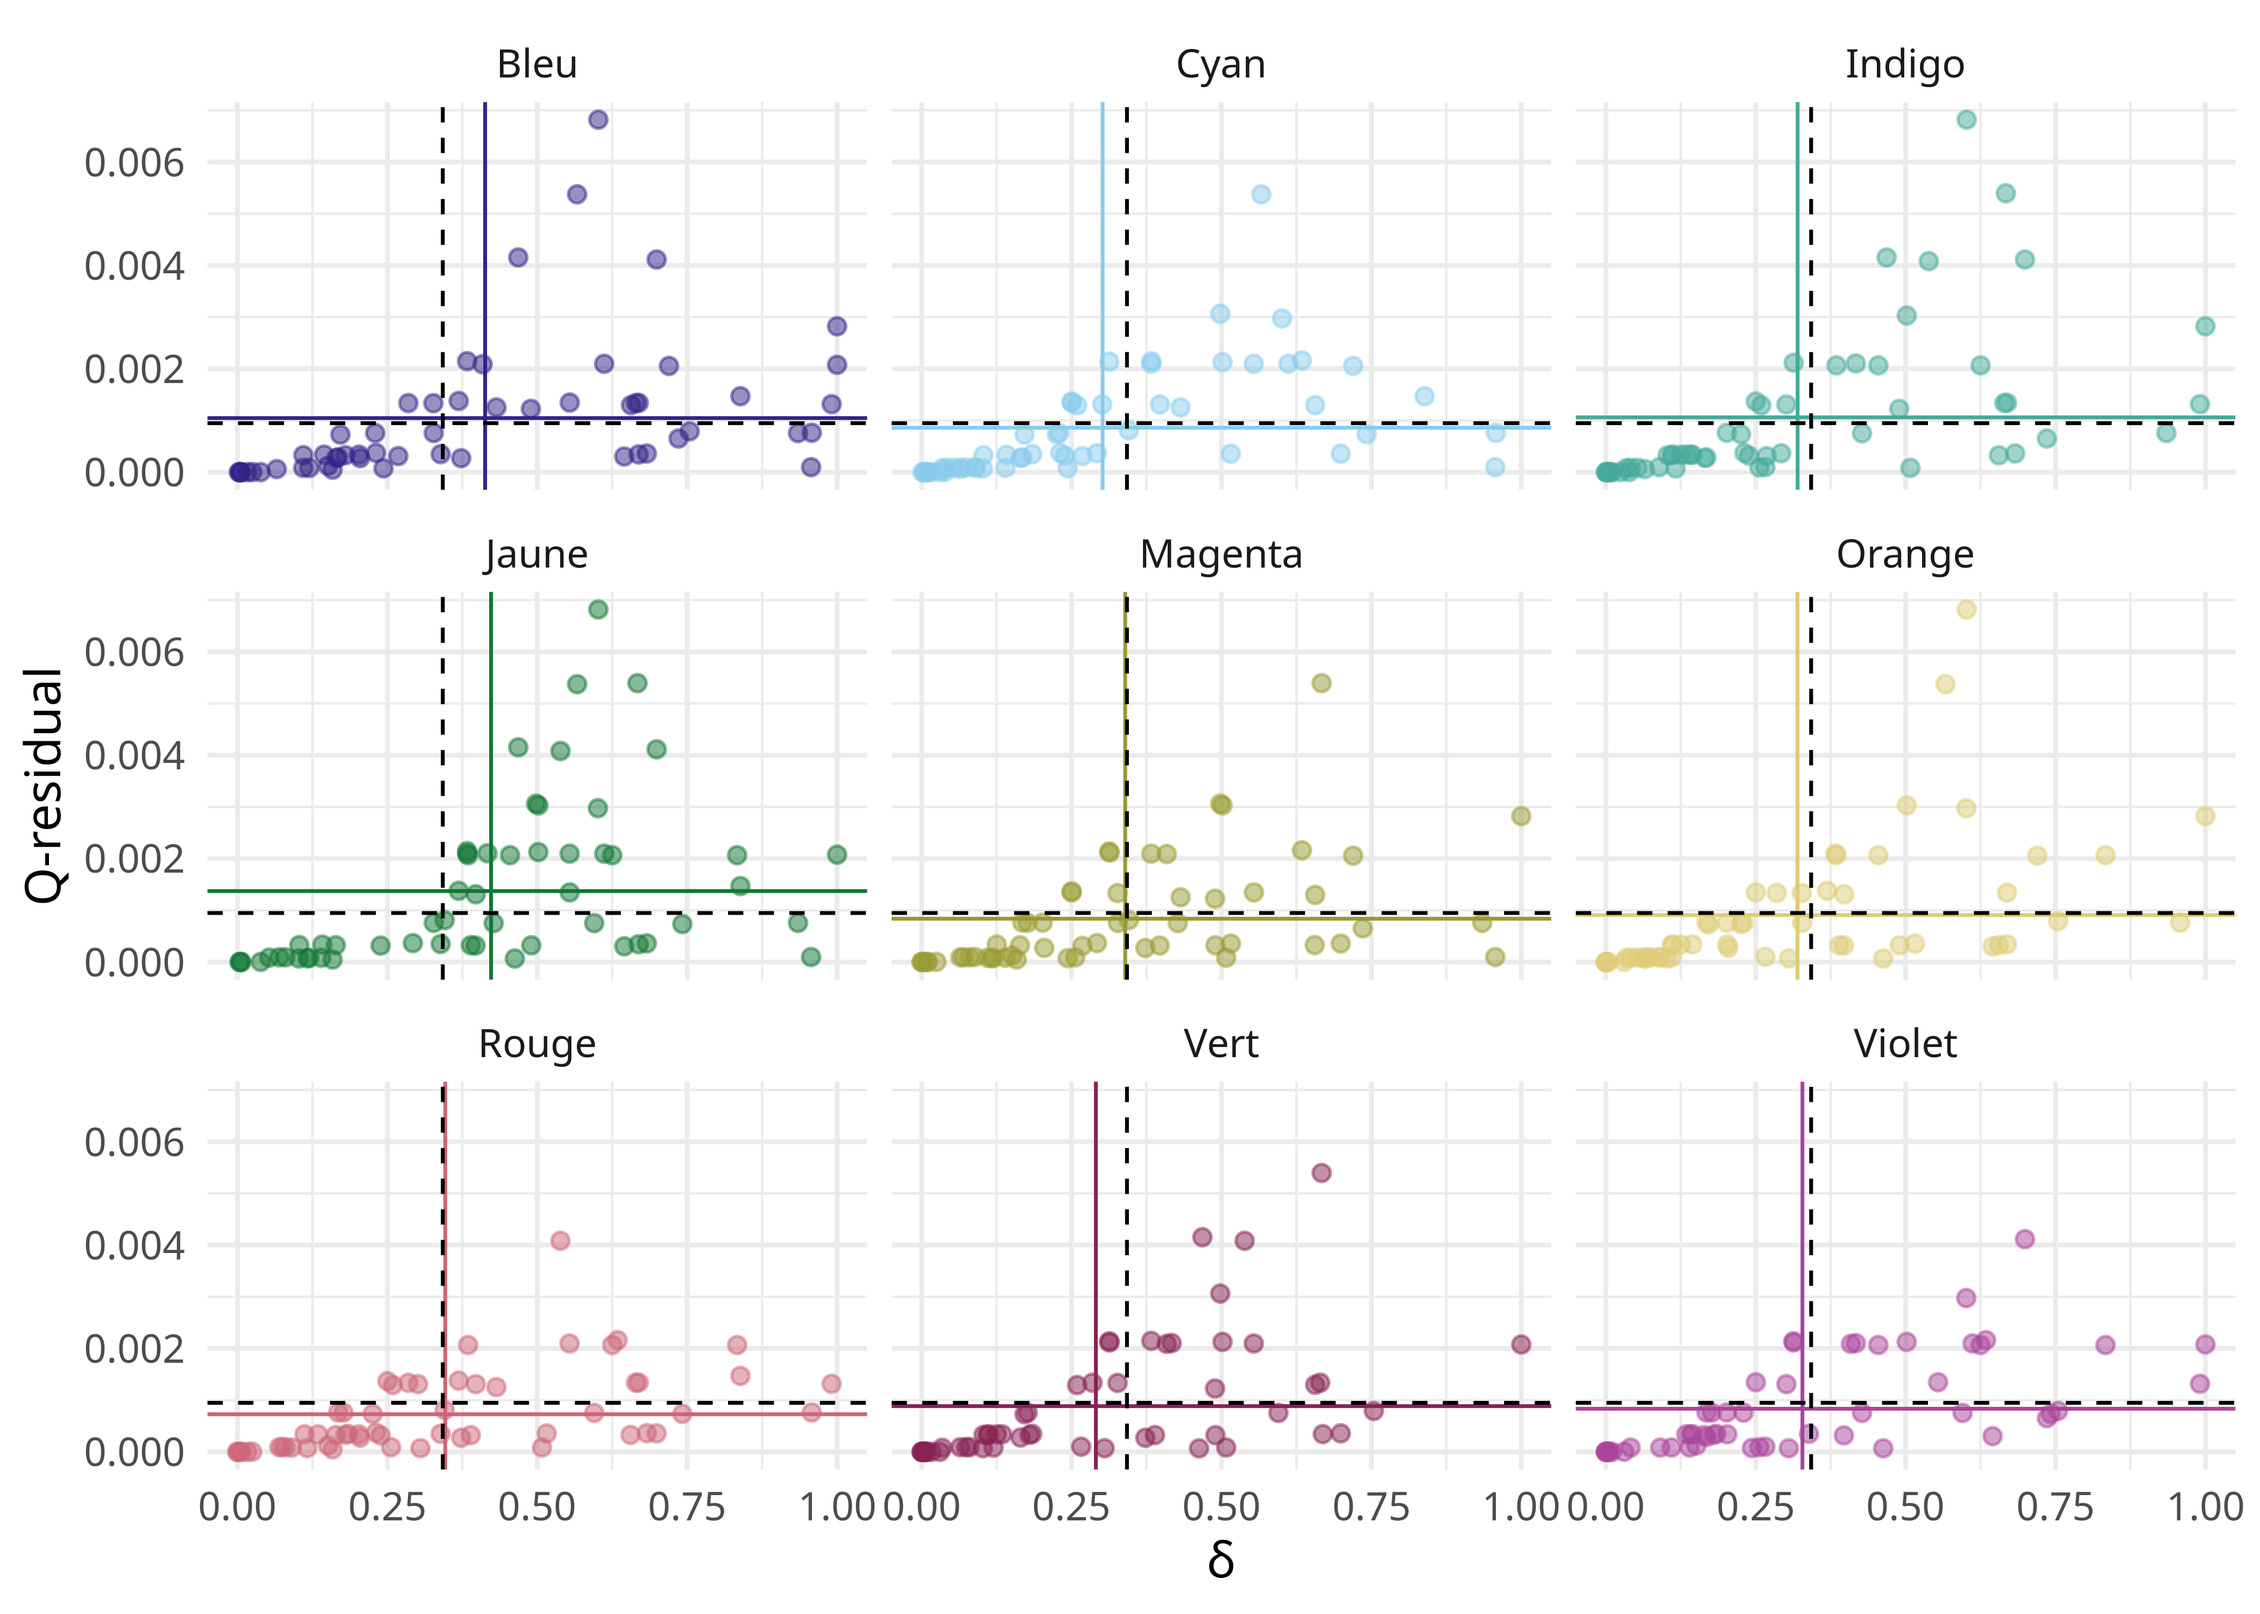
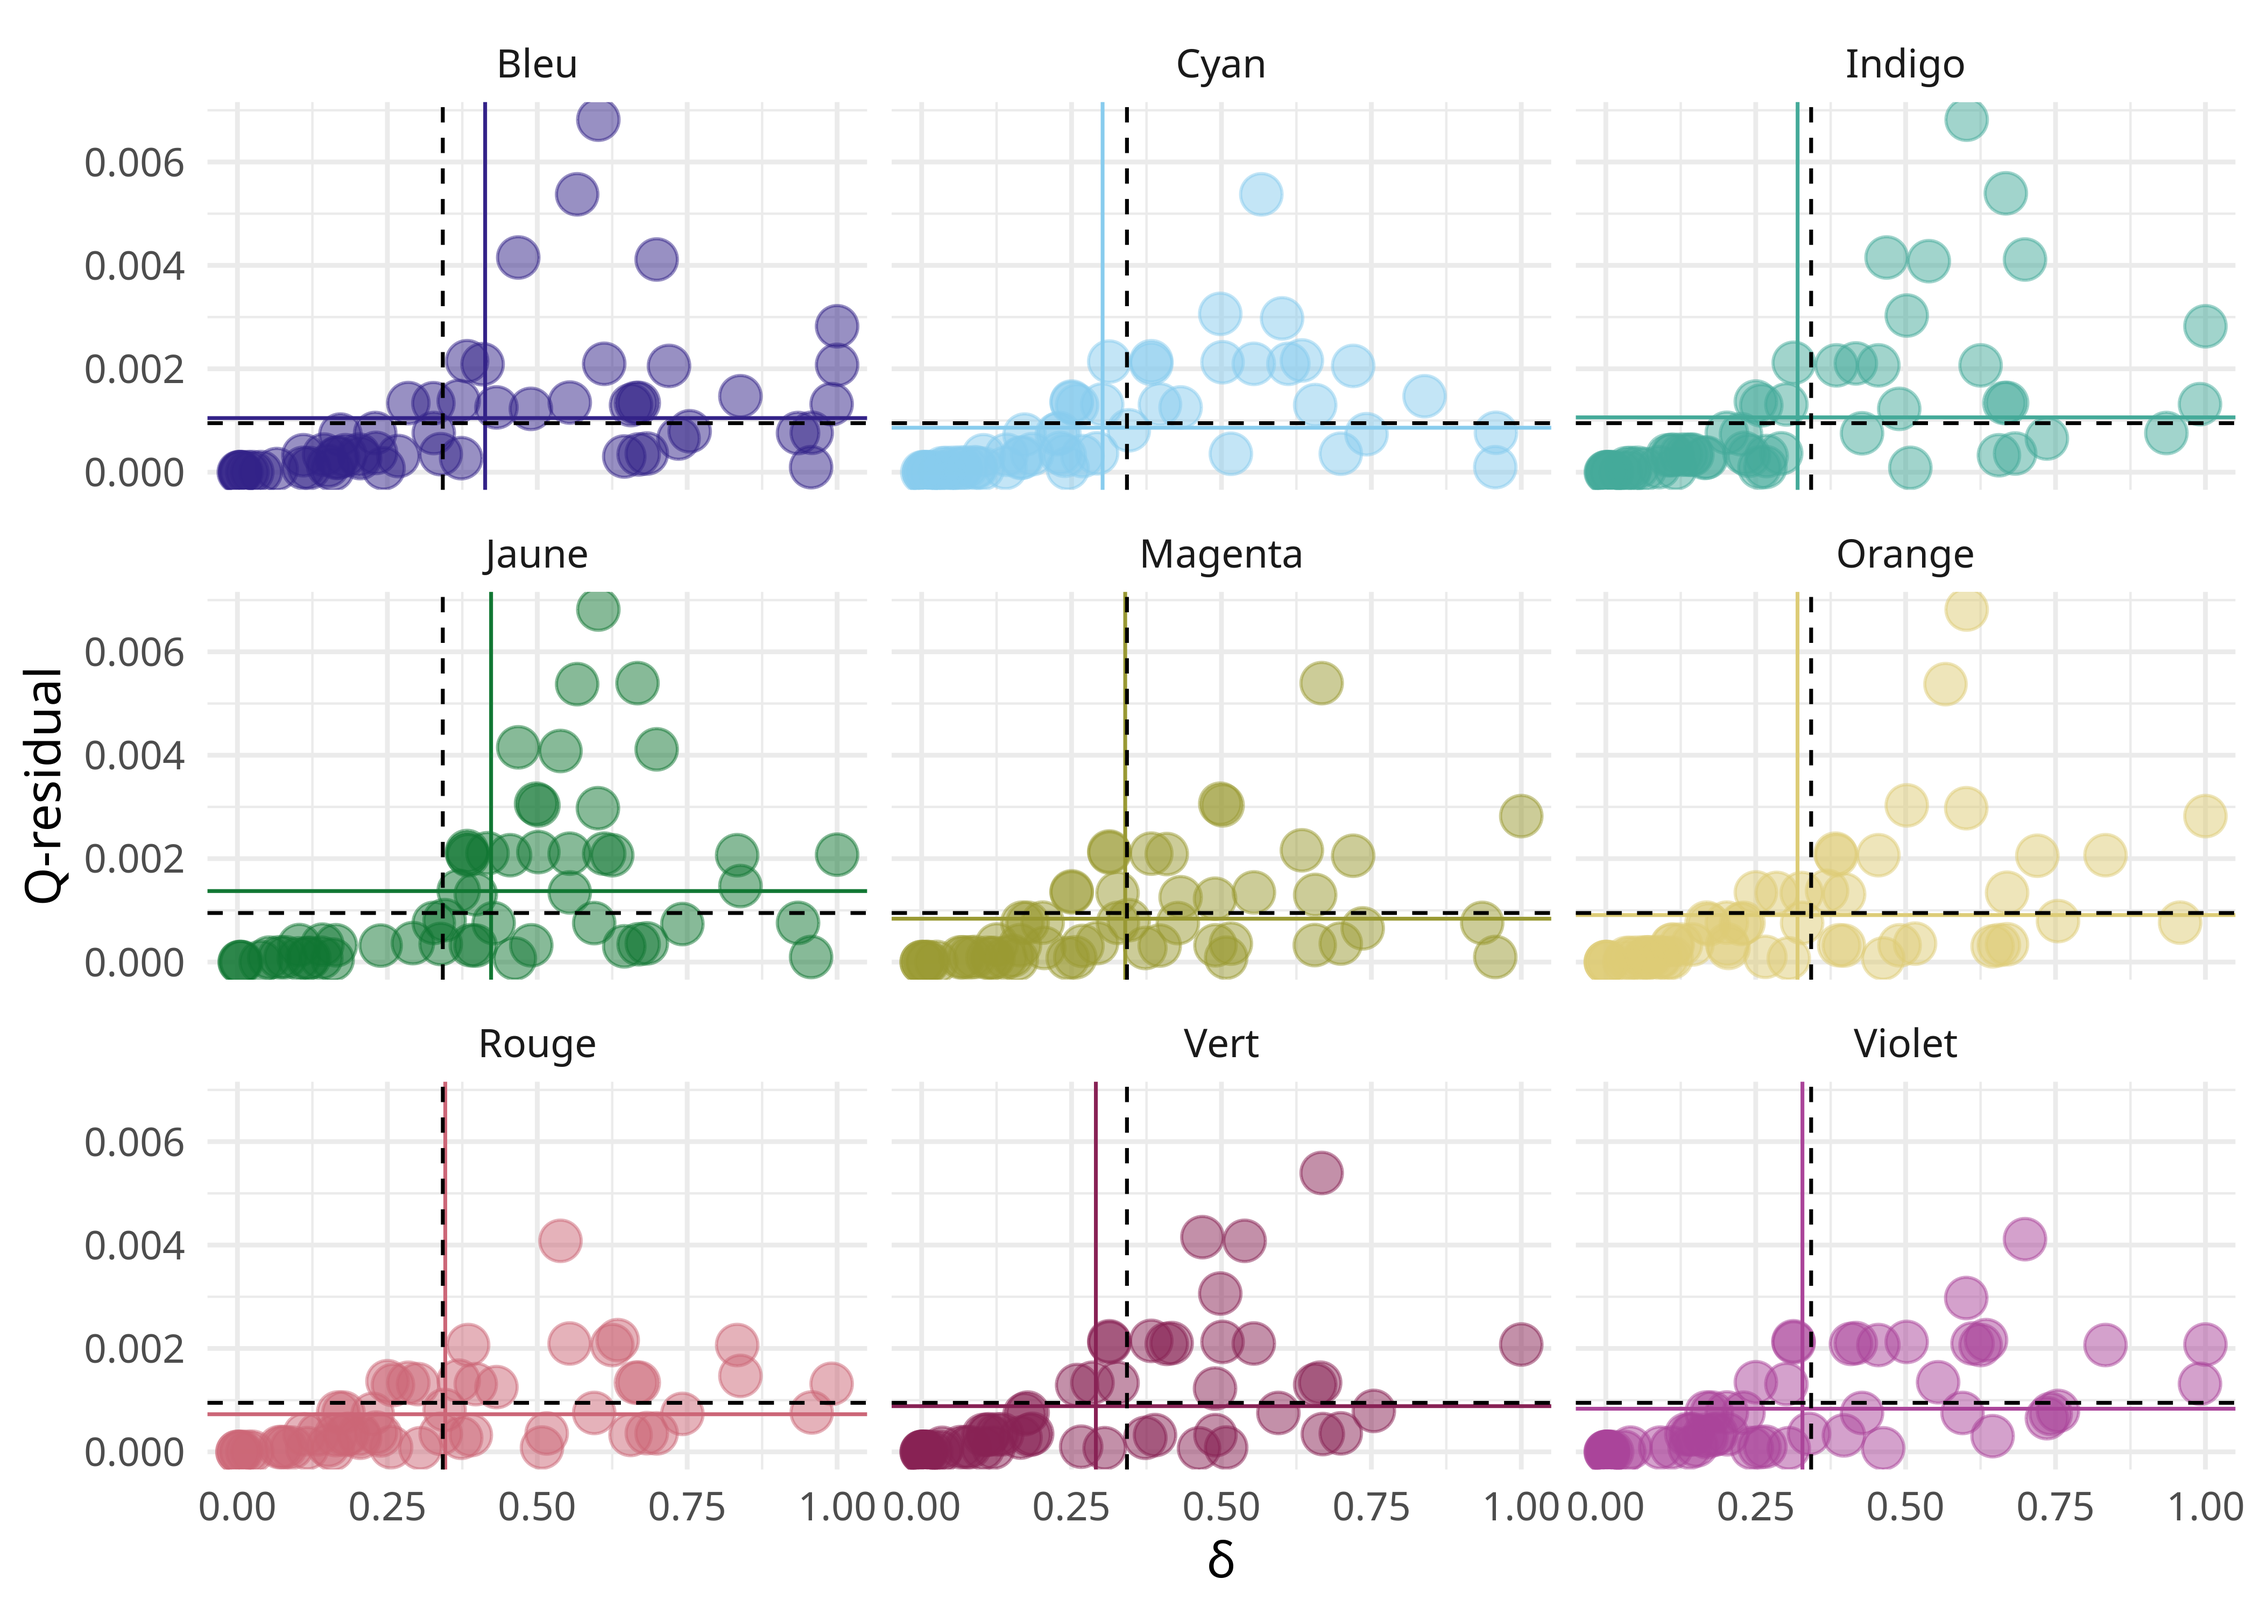
Update evaluation.html, unnamed-chunk-17-1.png, and 6 more files...

diff --git a/docs/evaluation.html b/docs/evaluation.html
@@ -481,7 +481,7 @@ $delta.bar
 <span><span class="va">qr</span> <span class="op">&lt;-</span> <span class="fu">delta.score2</span><span class="op">(</span><span class="va">lx_phy</span>, <span class="st">"all"</span>, f <span class="op">=</span> <span class="va">q.resid</span><span class="op">)</span></span>
 <span><span class="fu"><a href="https://tibble.tidyverse.org/reference/tibble.html">tibble</a></span><span class="op">(</span><span class="va">ds</span>, <span class="va">qr</span><span class="op">)</span> <span class="op"><a href="https://magrittr.tidyverse.org/reference/pipe.html">%&gt;%</a></span> </span>
 <span>  <span class="fu"><a href="https://ggplot2.tidyverse.org/reference/ggplot.html">ggplot</a></span><span class="op">(</span><span class="fu"><a href="https://ggplot2.tidyverse.org/reference/aes.html">aes</a></span><span class="op">(</span>x <span class="op">=</span> <span class="va">ds</span>, y <span class="op">=</span><span class="va">qr</span><span class="op">)</span><span class="op">)</span> <span class="op">+</span></span>
-<span>  <span class="fu"><a href="https://ggplot2.tidyverse.org/reference/geom_point.html">geom_point</a></span><span class="op">(</span>color <span class="op">=</span> <span class="fu"><a href="https://rdrr.io/pkg/ggthemes/man/few_pal.html">few_pal</a></span><span class="op">(</span><span class="st">"Dark"</span><span class="op">)</span><span class="op">(</span><span class="fl">2</span><span class="op">)</span><span class="op">[</span><span class="fl">2</span><span class="op">]</span>, fill <span class="op">=</span> <span class="fu"><a href="https://rdrr.io/pkg/ggthemes/man/few_pal.html">few_pal</a></span><span class="op">(</span><span class="st">"Dark"</span><span class="op">)</span><span class="op">(</span><span class="fl">2</span><span class="op">)</span><span class="op">[</span><span class="fl">2</span><span class="op">]</span>, size <span class="op">=</span> <span class="fl">3</span>, pch <span class="op">=</span> <span class="fl">21</span>, alpha <span class="op">=</span> <span class="fl">.5</span><span class="op">)</span> <span class="op">+</span></span>
+<span>  <span class="fu"><a href="https://ggplot2.tidyverse.org/reference/geom_point.html">geom_point</a></span><span class="op">(</span>color <span class="op">=</span> <span class="fu"><a href="https://rdrr.io/pkg/ggthemes/man/few_pal.html">few_pal</a></span><span class="op">(</span><span class="st">"Dark"</span><span class="op">)</span><span class="op">(</span><span class="fl">2</span><span class="op">)</span><span class="op">[</span><span class="fl">2</span><span class="op">]</span>, fill <span class="op">=</span> <span class="fu"><a href="https://rdrr.io/pkg/ggthemes/man/few_pal.html">few_pal</a></span><span class="op">(</span><span class="st">"Dark"</span><span class="op">)</span><span class="op">(</span><span class="fl">2</span><span class="op">)</span><span class="op">[</span><span class="fl">2</span><span class="op">]</span>, size <span class="op">=</span> <span class="fl">4</span>, pch <span class="op">=</span> <span class="fl">21</span>, alpha <span class="op">=</span> <span class="fl">.5</span><span class="op">)</span> <span class="op">+</span></span>
 <span>  <span class="fu"><a href="https://ggplot2.tidyverse.org/reference/geom_abline.html">geom_vline</a></span><span class="op">(</span>xintercept <span class="op">=</span> <span class="fu"><a href="https://rdrr.io/r/base/mean.html">mean</a></span><span class="op">(</span><span class="va">ds</span><span class="op">)</span>, linewidth <span class="op">=</span> <span class="fl">.4</span><span class="op">)</span> <span class="op">+</span></span>
 <span>  <span class="fu"><a href="https://ggplot2.tidyverse.org/reference/geom_abline.html">geom_hline</a></span><span class="op">(</span>yintercept <span class="op">=</span> <span class="fu"><a href="https://rdrr.io/r/base/mean.html">mean</a></span><span class="op">(</span><span class="va">qr</span><span class="op">)</span>, linewidth <span class="op">=</span> <span class="fl">.4</span><span class="op">)</span> <span class="op">+</span></span>
 <span>  <span class="fu"><a href="https://ggplot2.tidyverse.org/reference/labs.html">xlab</a></span><span class="op">(</span><span class="st">"δ"</span><span class="op">)</span> <span class="op">+</span></span>
@@ -515,7 +515,7 @@ $delta.bar
 <div class="cell">
 <div class="sourceCode" id="cb32"><pre class="downlit sourceCode r code-with-copy"><code class="sourceCode R"><span><span class="va">dsqr_bytaxon</span> <span class="op"><a href="https://magrittr.tidyverse.org/reference/pipe.html">%&gt;%</a></span> </span>
 <span>  <span class="fu"><a href="https://ggplot2.tidyverse.org/reference/ggplot.html">ggplot</a></span><span class="op">(</span><span class="fu"><a href="https://ggplot2.tidyverse.org/reference/aes.html">aes</a></span><span class="op">(</span>x <span class="op">=</span> <span class="va">ds</span>, y <span class="op">=</span><span class="va">qr</span>, color <span class="op">=</span> <span class="va">taxon</span>, fill <span class="op">=</span> <span class="va">taxon</span><span class="op">)</span><span class="op">)</span> <span class="op">+</span></span>
-<span>  <span class="fu"><a href="https://ggplot2.tidyverse.org/reference/geom_point.html">geom_point</a></span><span class="op">(</span>pch <span class="op">=</span> <span class="fl">21</span>, alpha <span class="op">=</span> <span class="fl">.5</span><span class="op">)</span> <span class="op">+</span></span>
+<span>  <span class="fu"><a href="https://ggplot2.tidyverse.org/reference/geom_point.html">geom_point</a></span><span class="op">(</span>pch <span class="op">=</span> <span class="fl">21</span>, alpha <span class="op">=</span> <span class="fl">.5</span>, size <span class="op">=</span> <span class="fl">4</span><span class="op">)</span> <span class="op">+</span></span>
 <span>  <span class="fu"><a href="https://ggplot2.tidyverse.org/reference/geom_abline.html">geom_vline</a></span><span class="op">(</span>data <span class="op">=</span> <span class="va">dsqr_bytaxon_mean</span>, <span class="fu"><a href="https://ggplot2.tidyverse.org/reference/aes.html">aes</a></span><span class="op">(</span>xintercept <span class="op">=</span> <span class="va">ds</span>, color <span class="op">=</span> <span class="va">taxon</span><span class="op">)</span>, linewidth <span class="op">=</span> <span class="fl">.4</span><span class="op">)</span> <span class="op">+</span></span>
 <span>  <span class="fu"><a href="https://ggplot2.tidyverse.org/reference/geom_abline.html">geom_hline</a></span><span class="op">(</span>data <span class="op">=</span> <span class="va">dsqr_bytaxon_mean</span>, <span class="fu"><a href="https://ggplot2.tidyverse.org/reference/aes.html">aes</a></span><span class="op">(</span>yintercept <span class="op">=</span> <span class="va">qr</span>, color <span class="op">=</span> <span class="va">taxon</span><span class="op">)</span>, linewidth <span class="op">=</span> <span class="fl">.4</span><span class="op">)</span> <span class="op">+</span></span>
 <span>  <span class="fu"><a href="https://ggplot2.tidyverse.org/reference/geom_abline.html">geom_vline</a></span><span class="op">(</span>xintercept <span class="op">=</span> <span class="fu"><a href="https://rdrr.io/r/base/mean.html">mean</a></span><span class="op">(</span><span class="va">ds</span><span class="op">)</span>, linewidth <span class="op">=</span> <span class="fl">.4</span>, linetype <span class="op">=</span> <span class="st">"dashed"</span><span class="op">)</span> <span class="op">+</span></span>
